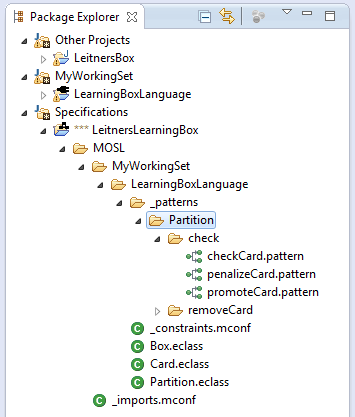
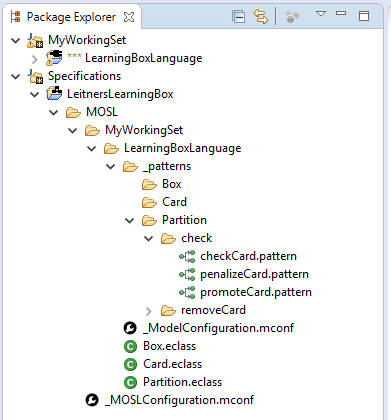
last progress

diff --git a/Handbook/org.moflon.doc.handbook.03_storyDiagrams/03_removeCard/texRemoveCard.tex b/Handbook/org.moflon.doc.handbook.03_storyDiagrams/03_removeCard/texRemoveCard.tex
@@ -20,7 +20,7 @@ empty line, then select the pattern template to establish \texttt{deleteSingleCa
 
 \vspace{0.5cm}
 
-\lstinputlisting[style=eclass, label=eclipse:remCardDec,caption={Control flow for \texttt{removeCard}}] {../03_removeCard/texRemCode/Partition.txt} 
+\lstinputlisting[style=eclass, firstline=12, lastline=16, firstnumber=12, label=eclipse:remCardDec,caption={Control flow for \texttt{removeCard}}] {../03_removeCard/texRemCode/Partition.txt} 
 
 \itemWithRightTriangle It should be mentioned that MOSL limits method definitions exclusively to the method's control flow. All actual transformation
 rules are modelled in separate \emph{pattern} files. In this case, \texttt{removeCard}'s link deletion will be modelled in \texttt{[deleteSingleCard]}.
@@ -63,7 +63,7 @@ option and press \texttt{Finish}.
 	\subfloat[Wizard to create the \texttt{remove\-Card} folder]{	
 			\includegraphics[width=0.45\textwidth]{eclipse_newFolder}
 			\label{eclipse:newFoldern}
-		}
+	}
 	\subfloat[Wizard to create the \texttt{delete\-Single\-Card} pattern]{
 		\includegraphics[width=0.45\textwidth]{eclipse_newPattern}
 		\label{eclipse:newPattern}
@@ -88,40 +88,26 @@ but \emph{what}.
 
 \begin{figure}[htp]
 \begin{center}
-  \includegraphics[width=0.9\textwidth]{eclipse_patternStructure}
+  \includegraphics[width=0.6\textwidth]{eclipse_patternStructure}
   \caption{Directory structure for a pattern}
   \label{eclipse:pattStruct}
 \end{center}
 \end{figure}
 
-\itemWithRightTriangle Create two object variables, \texttt{@this:Partition } and \texttt{ @card:Card}\\ (Fig.~\ref{eclipse:remCardObjVar}). When working
-with MOSL patterns, \texttt{`@'} again indicates that the variable is \emph{bound}. \texttt{this} is bound to the object whose method is invoked,
-while \texttt{card} is bound to the value of the parameter with the same name.
+\itemWithRightTriangle Create two object variables, \texttt{{\color{VIOLET}@this} : Partition}~and \texttt{@card : Card}\\ (Listings~\ref{eclipse:remCardDeleteSC}, Line~\ref{eclipse:remThisPartition} and~\ref{eclipse:remCardPartition}). When working with MOSL patterns, \texttt{`@'} indicates a \emph{ObjectVariableExpression}\define{ObjectVariable\-Expression}. This expression implicitly refers to object variables from the preceding story node.It also indicates that the variable is \emph{bound}. \texttt{{\color{VIOLET}this}} is bound to the object whose method is invoked, while \texttt{card} is bound to the value of the parameter with the same name. 
 
-%\itemWithRightTriangle Note that in this context, the \texttt{`\$'} operator indicates a \emph{ObjectVariableExpression}%
-%\define{Parameter\-Expression}. This expression implicitly refers to object variables from the preceding story node. In \texttt{removeCard}'s case, the
-%returned object refers to the \texttt{card} from the pattern.
-
-\begin{figure}[htp]
-\begin{center}
-  \includegraphics[width=0.6\textwidth]{eclipse_thisObjVar}
-  \caption{Object variables for \texttt{removeCard}}
-  \label{eclipse:remCardObjVar}
-\end{center}
-\end{figure}
+\vspace{0.5cm}
 
 \itemWithRightTriangle Object variable scopes determine the changes to be applied to the any exiting references of the variable. Therefore, add:
-\syntax{-- -card-> card} to \texttt{@this} to destroy the \texttt{card} reference targeting the \texttt{card} object. Your pattern should now resemble
-Fig.~\ref{eclipse:deleteReference}. 
+\syntax{\color{RED}-- -card-> card} to \texttt{{\color{VIOLET}@this}} to destroy the \texttt{card} reference targeting the \texttt{card} object. Your pattern should now resemble Listing~\ref{eclipse:remCardDeleteSC}, Line~\ref{eclipse:remThisPartition}. 
 
-\begin{figure}[htp]
-\begin{center}
-    \includegraphics[width=0.6\textwidth]{eclipse_remCardObjVars}
-  \caption{Destroy the link between a card and its partition}
-  \label{eclipse:deleteReference}
-\end{center}
-\end{figure}
-\newpage
+
+\vspace{0.5cm}
+
+
+\lstinputlisting[style=pattern, label=eclipse:remCardDeleteSC,caption={Object variables for \texttt{removeCard} and destroy the link between a card and its partition}] {../03_removeCard/texRemCode/deleteSingleCard.txt}
+
+\vspace{0.5cm}
 
 \itemWithRightTriangle In summary, any \emph{outgoing link
  variable}\define{Outgoing~Link Var\-i\-able} follows this syntax:
@@ -129,7 +115,8 @@ Fig.~\ref{eclipse:deleteReference}.
 \syntax{[action]`-'nameOfOutgoingLV`-> 'targetOV\\
 \\
 With:\\
-action := `--' | `++' | `!'\\
+action := `{\color{RED}--}' | `{\color{GREEN}++}' | `!' | `!.'index\\
+index := NUM\\
 nameOfOutgoingLV := STRING\\
 targetOV := STRING
 }
@@ -140,8 +127,8 @@ or jump to a pattern, hover over the pattern name while holding \texttt{Ctrl}
 until it's underlined, then click!
 
 \itemWithRightTriangle Remember, links between classes can be specified as \emph{bidrectional EReferences},\footnote{Technically two
-\emph{unidirectional EReferences}. Refer to Part II, Section 2.5.} linked together as opposites in ``LearningBoxLanguage/\_con\-straints.mconf.'' In this case,
-therefore, we don't need to worry about declaring \texttt{--
+\emph{unidirectional EReferences}. Refer to Part II, Section 2.5.} linked together as opposites in ``LearningBoxLanguage/\_Mod\-el\-Config\-uration.mconf.'' In this case,
+therefore, we don't need to worry about declaring \texttt{\color{RED}--
 -cardContainer-> Card} inside \texttt{card}, as it would be redundant.
 
 \itemWithRightTriangle Save and build your metamodel. If any errors occur, double check and make sure your activity and pattern match ours. 

diff --git a/Handbook/org.moflon.doc.handbook.03_storyDiagrams/04_checkCard/texCheckCard.tex b/Handbook/org.moflon.doc.handbook.03_storyDiagrams/04_checkCard/texCheckCard.tex
@@ -9,24 +9,16 @@
 action is determined as the result of a conditional statement, we need an \emph{if/else} construct.
 
 \item[$\blacktriangleright$] In the \texttt{check} method, create the basic \emph{if/else} construct with three patterns, as illustrated in
-Fig.~\ref{eclipse:checkDec}. Our auto completion feature includes a template for this.
+Listing~\ref{eclipse:finalMethod}, Line~\ref{code:checkCard}, \ref{code:promoteCard} and~\ref{code:penalizeCard}. Our auto completion feature includes a template for this.
 
 \vspace{0.5cm}
-
-\begin{figure}[htbp]
-\begin{center}
-  \includegraphics[width=0.65\textwidth]{eclipse_checkCardMethod}
-  \caption{An if/else construct in \texttt{check}}
-  \label{eclipse:checkDec}
-\end{center}
-\end{figure} 
 
 \item[$\blacktriangleright$] Upon saving, use the ``Quick Fix'' wizard again to generate the required pattern files. Your package explorer should now resemble
 Fig.~\ref{eclipse:checkPatternsExplorer}.
 
 \begin{figure}[htbp]
 \begin{center}
-  \includegraphics[width=0.55\textwidth]{eclipse_checkPackageExplorer}
+  \includegraphics[width=0.6\textwidth]{eclipse_checkPackageExplorer}
   \caption{Project directory after creating patterns}
   \label{eclipse:checkPatternsExplorer}
 \end{center}
@@ -120,26 +112,22 @@ integer\_literal := [`+' | `-'] ( `1' |\ldots| `9' ) \\
 any\_literal := SINGLE\_QUOTED\_STRING\\
 }
 
-\vspace{0.5cm}
+
 
 \item[$\blacktriangleright$] Knowing this, and that \texttt{guess} was successful
 when the card was promoted, return \texttt{true} beneath \texttt{promoteCard}. If it was penalized, return \texttt{false}. Your \texttt{check} method
-should now resemble Fig.\ref{eclipse:finalMethod}.
+should now resemble Listing~\ref{eclipse:finalMethod}.
+
+\vspace{0.5cm}
+
+\lstinputlisting[style=eclass, firstline=17, lastline=29, firstnumber=17, label=eclipse:finalMethod,caption={Completed control flow for \texttt{check} with an if/else construct}] {../04_checkCard/texCheCode/Partition.txt} 
 
 \vspace{0.5cm}
 
 \item[$\blacktriangleright$] Save and build your metamodel, then try viewing the changes in ``PartitionImpl.Java'' under \texttt{check}. You'll be able to
 see the \emph{if/else} construct, as well as the link manipulations. 
 
-\newpage
-
-\begin{figure}[htbp]
-\begin{center}
-  \includegraphics[width=0.7\textwidth]{eclipse_checkMethodFinal}
-  \caption{Completed control flow for \texttt{check}}
-  \label{eclipse:finalMethod}
-\end{center}
-\end{figure}
+\vspace{0.5cm}
 
 \item[$\blacktriangleright$] Great job! You have just enabled checking a card with guesses via a new control flow construct, \emph{if/else}, and two patterns
 that move the cards appropriately. To see how this SDM is implemented visually, check out Fig.~\ref{ea:sdm_check_finish} for the control flow, and
